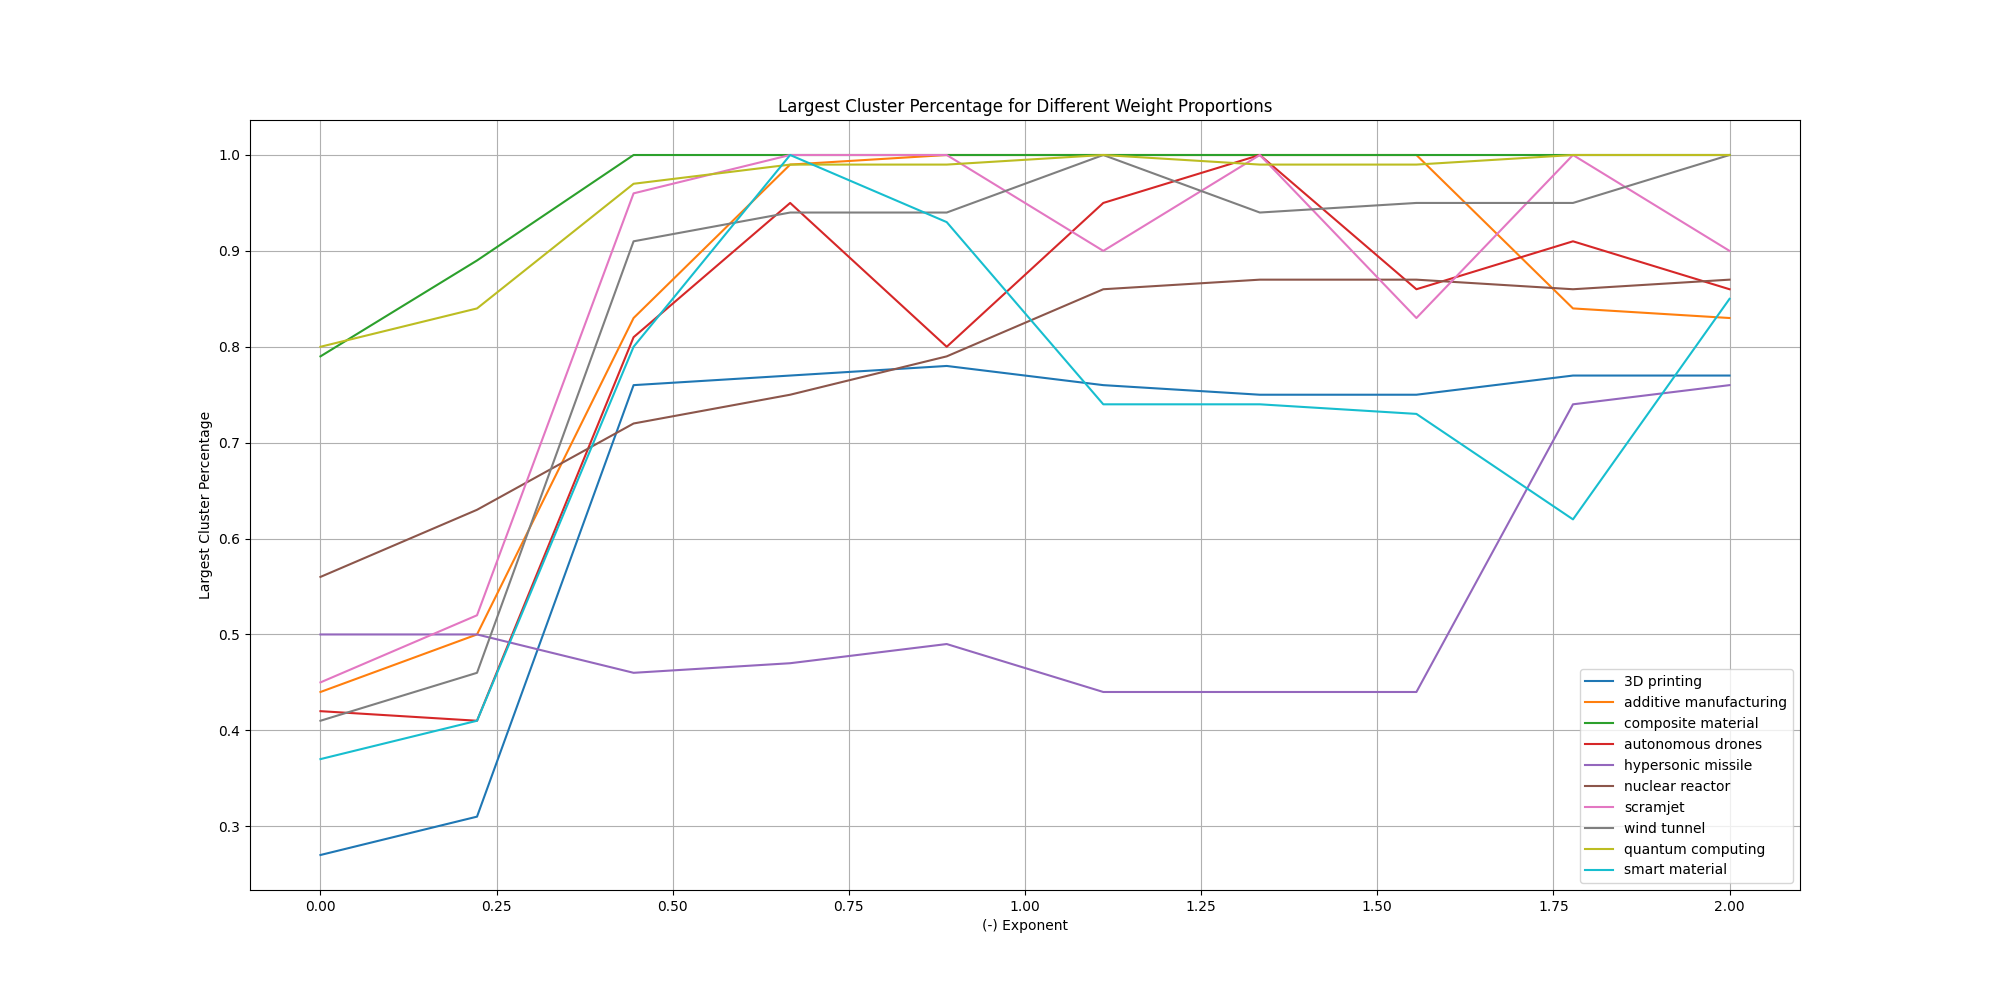
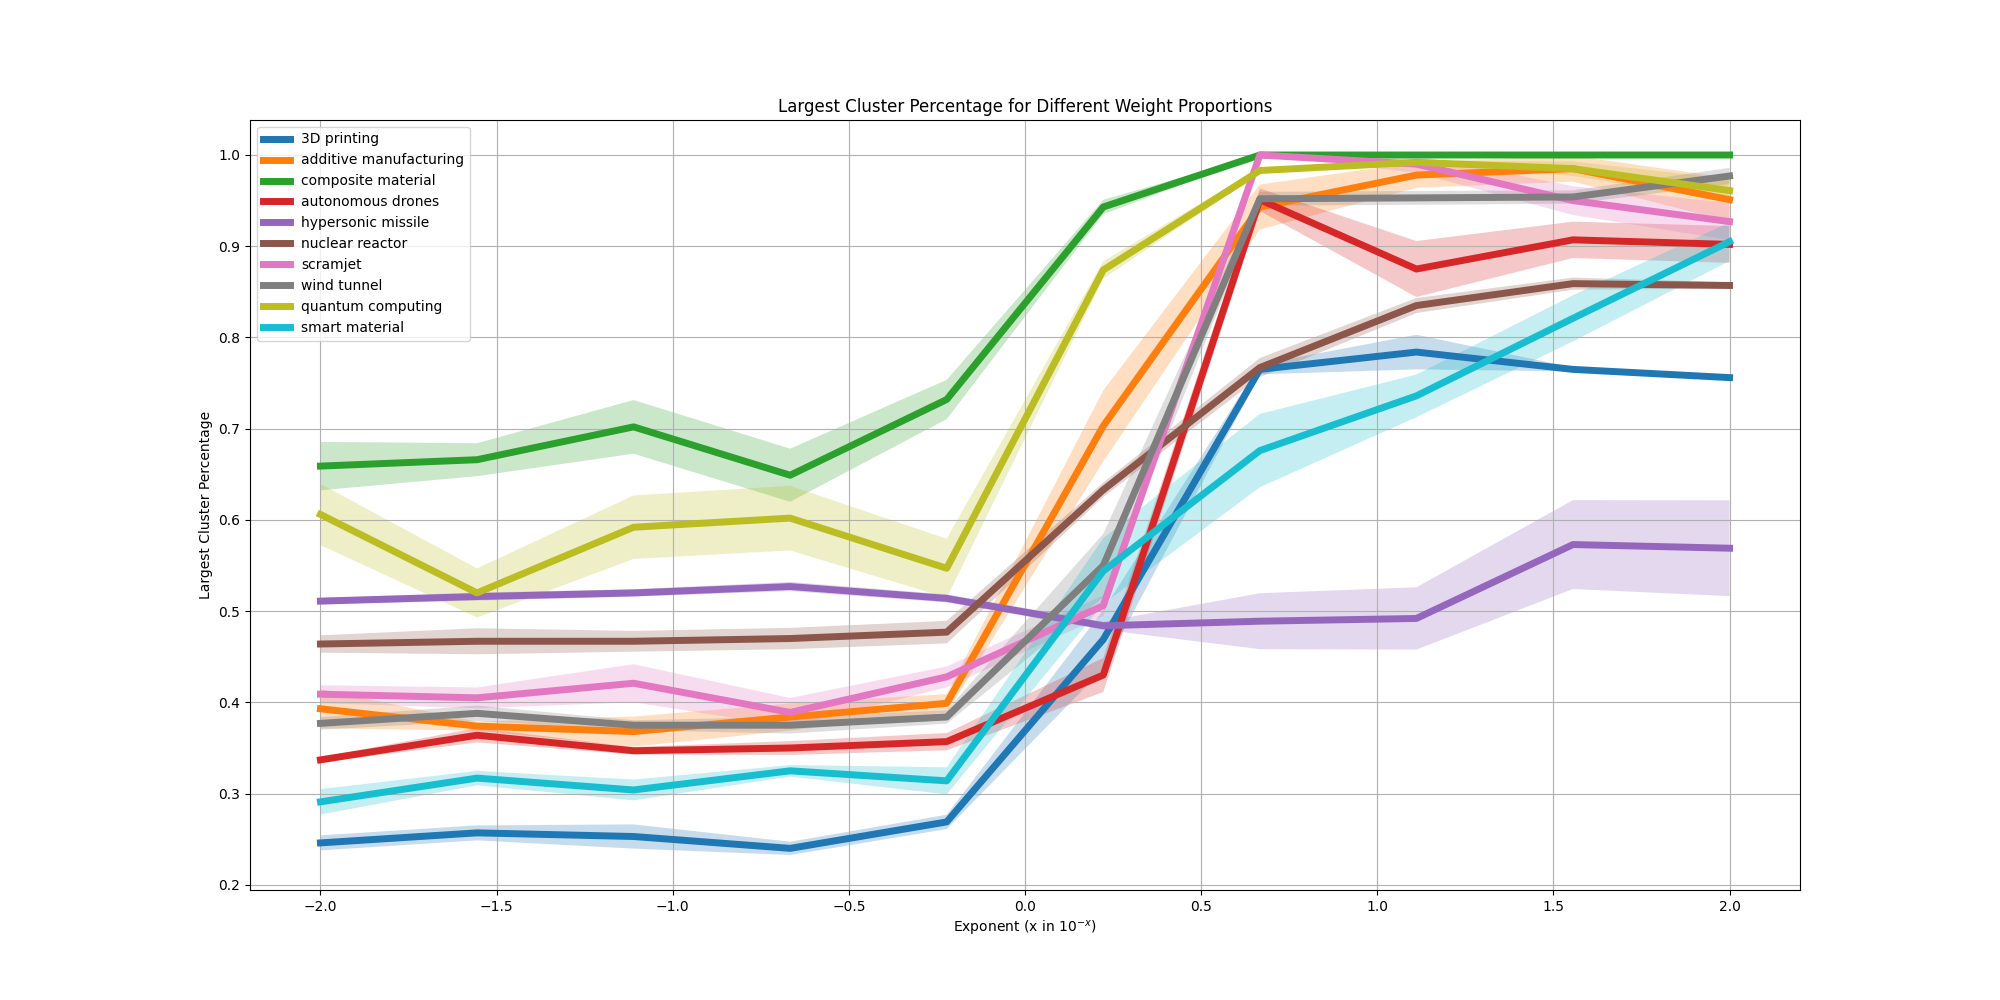
added cluster analysis, and tested for k=5

diff --git a/functions.py b/functions.py
@@ -364,7 +364,7 @@ def evaluate_clusters(G, name):
     return avg_index, largest_cluster_percentage
 
 
-def check_weight_prop(G, start, end, step, name, res,):
+def check_weight_prop(G, start, end, step, name, res, repeat):
     """
     takes a proportion graph, copies it and changes the weights for each edge type:
     1. original edges. set to 1
@@ -376,33 +376,47 @@ def check_weight_prop(G, start, end, step, name, res,):
     :param step:  the step of the range.
     :param name:  the name of the dataset.
     :param res:  the resolution coefficient.
+    :param repeat:  the number of times to repeat the process.
     :return:
     """
 
     # initialize the variables.
-    avg_indexes = []
-    largest_cluster_percentages = []
+    final_avg_indexes = []
+    final_largest_cluster_percentages = []
+    final_std_indexes = []
+    final_std_percentages = []
 
     # copy the graph.
     G_copy = copy.deepcopy(G)
     x_lst = np.linspace(start, end, step)
     x_lst = [10 ** -x for x in x_lst]
     # change the weights for the edges.
+
     for i in x_lst:
         for u, v in G_copy.edges():
             if G_copy[u][v]['color'] == 'blue':
                 G_copy[u][v]['weight'] = 1
             else:
                 G_copy[u][v]['weight'] = 10 ** -i
+        avg_indexes = []
+        largest_cluster_percentages = []
+        for j in range(repeat):
+            # re-cluster the graph.
+            cluster_graph(G_copy, name, method='louvain', resolution=res, save=False)
+            # evaluate the clusters.
+            avg_index, largest_cluster_percentage = evaluate_clusters(G_copy, name)
+            avg_indexes.append(avg_index)
+            largest_cluster_percentages.append(largest_cluster_percentage)
 
-        # re-cluster the graph.
-        cluster_graph(G_copy, name, method='louvain', resolution=res, save=False)
-        # evaluate the clusters.
-        avg_index, largest_cluster_percentage = evaluate_clusters(G_copy, name)
-        avg_indexes.append(avg_index)
-        largest_cluster_percentages.append(largest_cluster_percentage)
-    print(avg_indexes)
-    return avg_indexes, largest_cluster_percentages
+        # get the average and standard deviation for the indexes and percentages,
+        # meaning for each weight we get the average and standard deviation of the indexes and percentages.
+        final_avg_indexes.append(round(np.mean(avg_indexes), 3))
+        final_largest_cluster_percentages.append(round(np.mean(largest_cluster_percentages), 3))
+        final_std_indexes.append(round(np.std(avg_indexes), 3)/np.sqrt(repeat))
+        final_std_percentages.append(round(np.std(largest_cluster_percentages), 3)/np.sqrt(repeat))
+
+    return (final_avg_indexes, final_largest_cluster_percentages,
+            final_std_indexes, final_std_percentages)
 
 
 def plot_props(start, end, step, names: list, indexes: dict, percentages: dict):
@@ -420,8 +434,10 @@ def plot_props(start, end, step, names: list, indexes: dict, percentages: dict):
     plt.figure(figsize=(20, 10))
     x_vals = np.linspace(start, end, step)
     for i, name in enumerate(names):
-        plt.plot(x_vals, indexes[name], label=name, alpha=0.75)
-    plt.xlabel('Exponent')
+        plt.plot(x_vals, indexes[name][0], label=name, linewidth=5)
+        plt.fill_between(x_vals, np.array(indexes[name][0]) - np.array(indexes[name][1]),
+                         np.array(indexes[name][0]) + np.array(indexes[name][1]), alpha=0.25)
+    plt.xlabel('Exponent (x in $10^{-x}$)')
     plt.ylabel('Average Cluster Distance Index')
     plt.title('Average Cluster Distance Index for Different Weight Proportions')
     plt.legend()
@@ -432,8 +448,10 @@ def plot_props(start, end, step, names: list, indexes: dict, percentages: dict):
     # plot the largest cluster percentages.
     plt.figure(figsize=(20, 10))
     for i, name in enumerate(names):
-        plt.plot(x_vals, percentages[name], label=name)
-    plt.xlabel('(-) Exponent')
+        plt.plot(x_vals, percentages[name][0], label=name, linewidth=5)
+        plt.fill_between(x_vals, np.array(percentages[name][0]) - np.array(percentages[name][1]),
+                         np.array(percentages[name][0]) + np.array(percentages[name][1]), alpha=0.25)
+    plt.xlabel('Exponent (x in $10^{-x}$)')
     plt.ylabel('Largest Cluster Percentage')
     plt.title('Largest Cluster Percentage for Different Weight Proportions')
     plt.legend()

diff --git a/main.py b/main.py
@@ -222,13 +222,26 @@ if __name__ == '__main__':
     """
     Plot the results.
     """
-    indexes = {name: [] for name in ALL_NAMES}
-    percentages = {name: [] for name in ALL_NAMES}
+    indexes = {name: () for name in ALL_NAMES}
+    percentages = {name: () for name in ALL_NAMES}
     for name in ALL_NAMES:
         G = functions.load_graph(name, 'proportion', 0.5, 5)
-        a, b = functions.check_weight_prop(G, 0, 2, 10, name, res)
-        indexes[name] = a
-        percentages[name] = b
+        a, b, c, d = functions.check_weight_prop(G, -2, 2, 10, name, res, repeat=10)
+        indexes[name] = a, c  # index mean and std.
+        percentages[name] = b, d  # percentage mean and std.
 
-    functions.plot_props(0, 2, 10, ALL_NAMES, indexes, percentages)
+    functions.plot_props(-2, 2, 10, ALL_NAMES, indexes, percentages)
+    # save the results.
+    df1 = pd.DataFrame(indexes)
+    df2 = pd.DataFrame(percentages)
+    # change row names to mean and ste.
+    df1.index = ['mean', 'ste']
+    df2.index = ['mean', 'ste']
+    try:
+        df1.to_csv(f'Results/avg_distance.csv')
+        df2.to_csv(f'Results/percentages.csv')
+    except OSError:
+        os.makedirs('Results', exist_ok=True)
+        df1.to_csv(f'Results/avg_distance.csv')
+        df2.to_csv(f'Results/percentages.csv')
     print("Done.")
